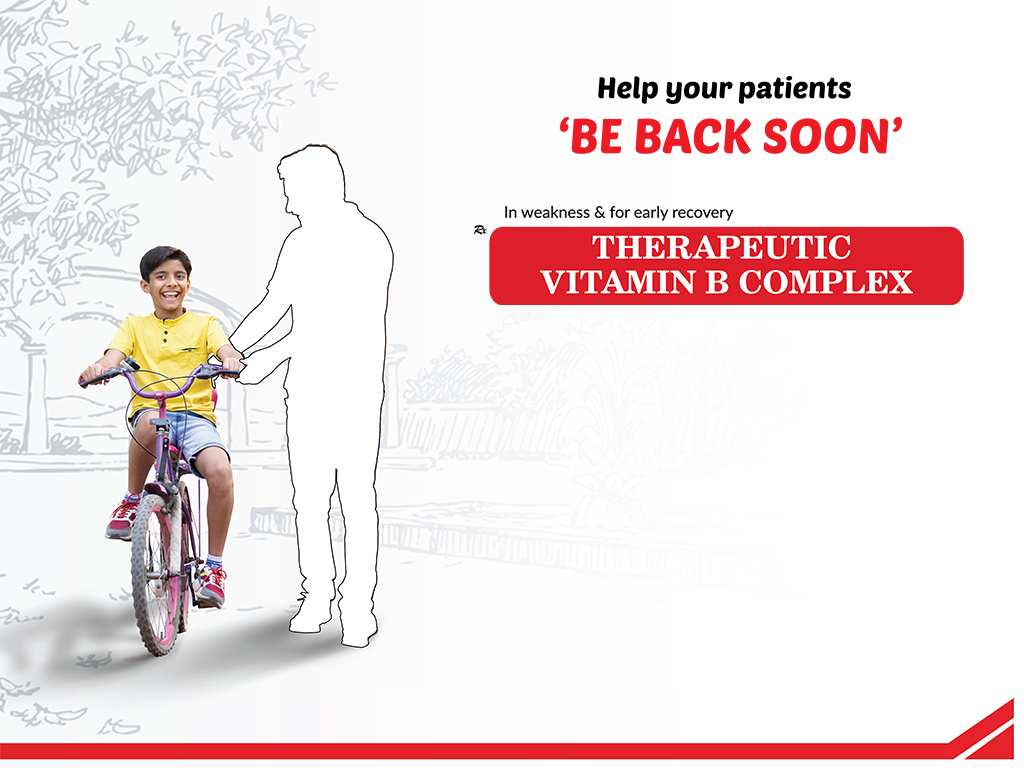
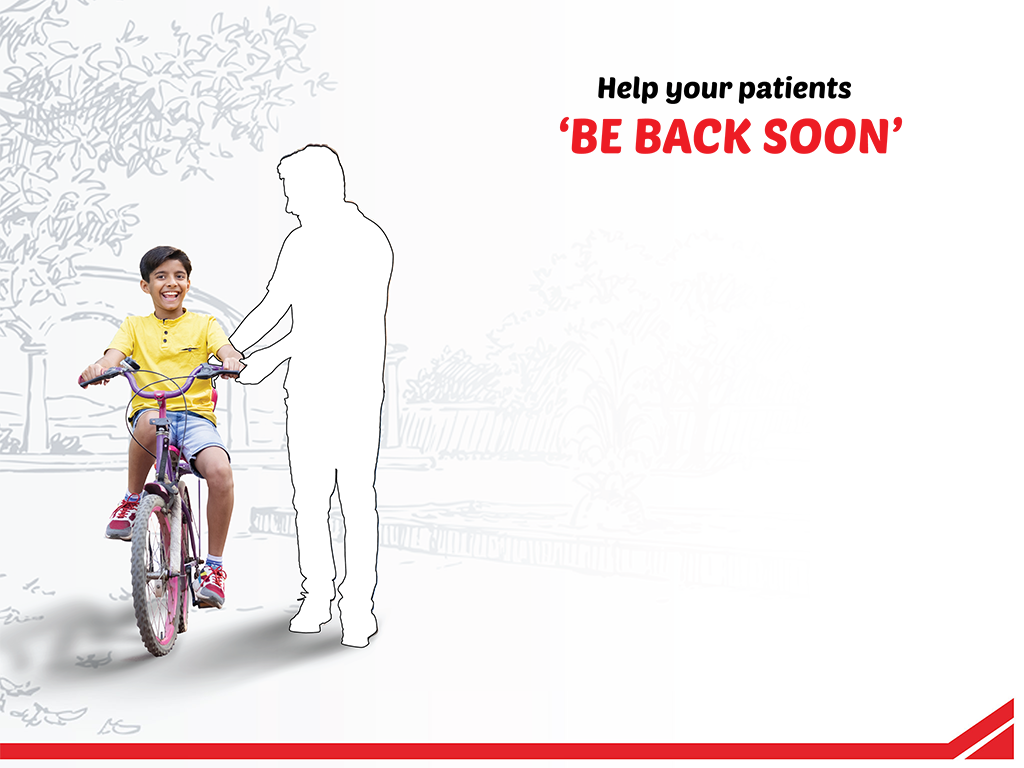
Revised

Changed region(s): [[0.4688, 0.25, 0.9688, 0.4062]]

diff --git a/global.js b/global.js
@@ -388,7 +388,7 @@ switch(pg_id){
 	content='<link rel="stylesheet" type="text/css" href="slide1/slide1.css" media="screen"/><div class="background"><img src="slide1/1.jpg" width="1024" height="768" alt=""></div>';
 	break;
 	case 2:
-	content='<link rel="stylesheet" type="text/css" href="slide2/slide2.css" media="screen"/><div class="background1"><img src="slide2/s2_1.png" width="1024" height="768" alt=""></div><div class="reveal" onclick="reveaLogo()"></div><div class="background2"><img src="slide2/s2_2.png" width="1024" height="768" alt=""></div><div class="pin1"><img src="slide2/s2_3.png"></div><div class="pin2"><img src="slide2/s2_4.png"></div><div class="point1"><img src="slide2/s2_5.png"></div><div class="point2"><img src="slide2/s2_6.png"></div><div class="point3"><img src="slide2/s2_7.png"></div>';
+	content='<link rel="stylesheet" type="text/css" href="slide2/slide2.css" media="screen"/><div class="background1"><img src="slide2/s2_1.png" width="1024" height="768" alt=""></div><div class="reveal" onclick="reveaLogo()"></div><div class="pin1pulse"><img src="slide2/s2_3.png"></div><div class="background2"><img src="slide2/s2_2.png" width="1024" height="768" alt=""></div><div class="pin1"><img src="slide2/s2_3.png"></div><div class="pin2"><img src="slide2/s2_4.png"></div><div class="point1"><img src="slide2/s2_5.png"></div><div class="point2"><img src="slide2/s2_6.png"></div><div class="point3"><img src="slide2/s2_7.png"></div>';
 	break;
     case 3:
 	content='<link rel="stylesheet" type="text/css" href="slide3/slide3.css" media="screen"/><div class="background"><img src="slide3/1.jpg" width="1024" height="768" alt=""></div>';
@@ -541,6 +541,7 @@ $(document).ready(function(){
 
 function reveaLogo() {
 	$('.background2').css("display","block");
+	$('.pin1pulse').css("display","none");
 	$('.pin1').css("display","block");
 	$('.pin2').css("display","block");
 	$('.point1').css("display","block");

diff --git a/index.html b/index.html
@@ -69,7 +69,7 @@ switch(custcomslideid){
 	content='<link rel="stylesheet" type="text/css" href="slide1/slide1.css" media="screen"/><div class="background"><img src="slide1/1.jpg" width="1024" height="768" alt=""></div>';
 	break;
 	case 2:
-	content='<link rel="stylesheet" type="text/css" href="slide2/slide2.css" media="screen"/><div class="background1"><img src="slide2/s2_1.png" width="1024" height="768" alt=""></div><div class="reveal" onclick="reveaLogo()"></div><div class="background2"><img src="slide2/s2_2.png" width="1024" height="768" alt=""></div><div class="pin1"><img src="slide2/s2_3.png"></div><div class="pin2"><img src="slide2/s2_4.png"></div><div class="point1"><img src="slide2/s2_5.png"></div><div class="point2"><img src="slide2/s2_6.png"></div><div class="point3"><img src="slide2/s2_7.png"></div>';
+	content='<link rel="stylesheet" type="text/css" href="slide2/slide2.css" media="screen"/><div class="background1"><img src="slide2/s2_1.png" width="1024" height="768" alt=""></div><div class="reveal" onclick="reveaLogo()"></div><div class="pin1pulse"><img src="slide2/s2_3.png"></div><div class="background2"><img src="slide2/s2_2.png" width="1024" height="768" alt=""></div><div class="pin1"><img src="slide2/s2_3.png"></div><div class="pin2"><img src="slide2/s2_4.png"></div><div class="point1"><img src="slide2/s2_5.png"></div><div class="point2"><img src="slide2/s2_6.png"></div><div class="point3"><img src="slide2/s2_7.png"></div>';
 	break;
     case 3:
 	content='<link rel="stylesheet" type="text/css" href="slide3/slide3.css" media="screen"/><div class="background"><img src="slide3/1.jpg" width="1024" height="768" alt=""></div>';

diff --git a/slide2/slide2.css b/slide2/slide2.css
@@ -10,13 +10,25 @@
 	z-index: 1;
 }
 
+.pin1pulse {
+  position: absolute;
+  left: 474px;
+  top: 205px;
+  width: 490px;
+  height: 100px;
+  animation: pulse 1s infinite;
+  animation-delay: 0s;
+  animation-fill-mode: both;
+  z-index: 2;
+}
+
 .reveal {
 	position: absolute;
-    left: 206px;
-    top: 119px;
-    width: 245px;
-    height: 565px;
-	z-index: 1;
+  left: 440px;
+  top: 182px;
+  width: 558px;
+  height: 161px;
+	z-index: 15;
 }
 
 .background2 {
@@ -24,7 +36,7 @@
 	width: 1024px;
 	height: 768px;
 	display: none;
-	z-index: 2;
+	z-index: 5;
 }
 
 .pin1 {
@@ -37,7 +49,7 @@
   animation-delay: 0s;
   animation-fill-mode: both;
   display: none;
-  z-index: 2;
+  z-index: 7;
 }
 
 .pin2 {
@@ -50,7 +62,7 @@
   animation-delay: 0.6s;
   animation-fill-mode: both;
   display: none;
-  z-index: 2;
+  z-index: 10;
 }
 
 .point1 {
@@ -63,7 +75,7 @@
   animation-delay: 1.6s;
   animation-fill-mode: both;
   display: none;
-  z-index: 2;
+  z-index: 5;
 }
 
 .point2 {
@@ -76,7 +88,7 @@
   animation-delay: 1.8s;
   animation-fill-mode: both;
   display: none;
-  z-index: 2;
+  z-index: 5;
 }
 
 .point3 {
@@ -89,5 +101,5 @@
   animation-delay: 2s;
   animation-fill-mode: both;
   display: none;
-  z-index: 2;
+  z-index: 5;
 }
